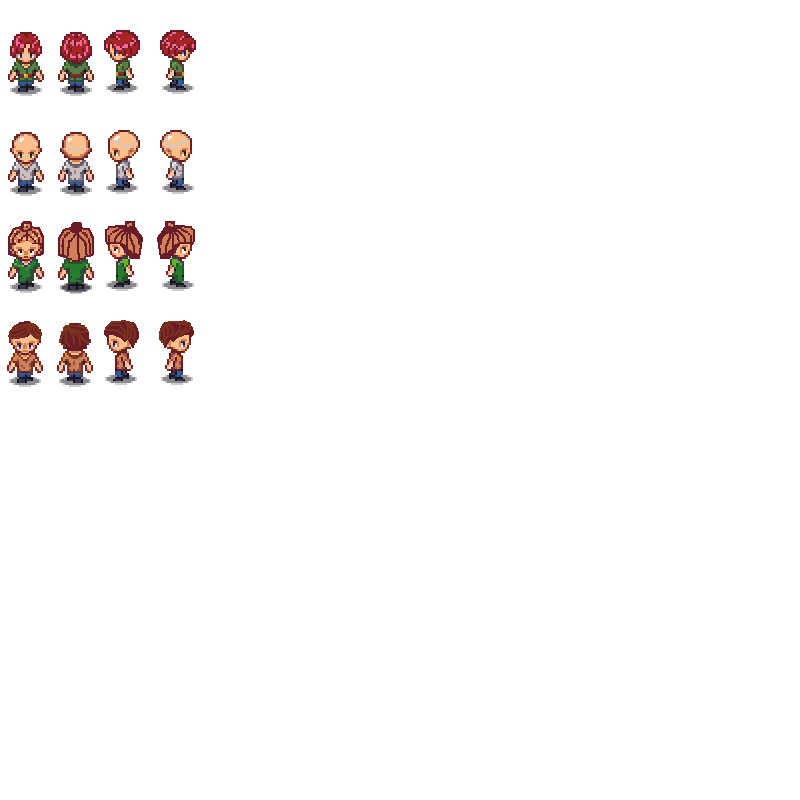
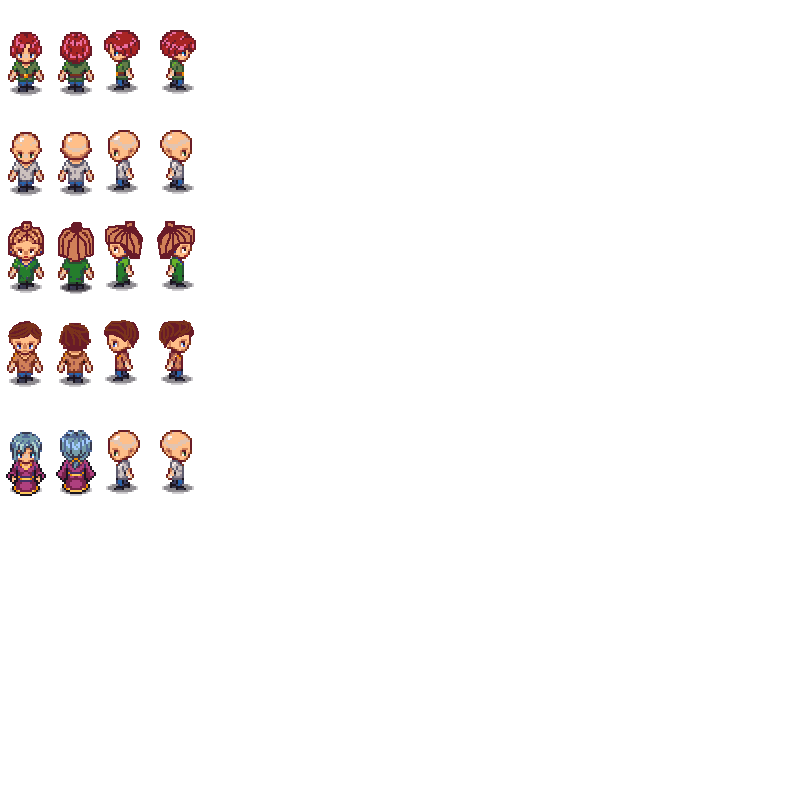
add village elder npc, add to house2

Changed region(s): [[0.0, 0.5312, 0.25, 0.625]]

diff --git a/js/daggerAssets.js b/js/daggerAssets.js
@@ -165,6 +165,13 @@ const animators = {
         }
     },
 
+    "ELDER": {
+        cls: "Animator",
+        animations: {
+            [Animator.idle]: "ELDER",
+        }
+    },
+
 }
 
 /**
@@ -1681,9 +1688,11 @@ const daggerAssets = [
     // 907   
         {tag: "FLETCHER",             id: 907, cls: "Sprite", width: 50, height: 100, xoffset: 0, yoffset: 300 },
         {tag: "FLETCHER_PORT",                cls: "Sprite", width: 50, height: 50, xoffset: 0, yoffset: 322 },
-       
     // 908   
         {tag: "HEALER",               id: 908, cls: "Sprite", width: 50, height: 100, xoffset: 0, yoffset: 100 },
+    // 909   
+        {tag: "ELDER",                id: 909,  cls: "Sprite", width: 50, height: 100, xoffset: 0, yoffset: 400 },
+        {tag: "ELDER_PORT",                     cls: "Sprite", width: 50, height: 50, xoffset: 0, yoffset: 422 },
     ]},
 
     /* === NON INDEXED ASSETS ================================================================ */

diff --git a/js/WorldGen.js b/js/WorldGen.js
@@ -550,7 +550,7 @@ var house2Spec = {
     fg: [
         420,430,430,430,430,430,430,430,430,421,
         420,431,437,431,431,431,431,431,428,421,
-        420,435,438,  0,  0,  0,  0,  0,429,421,
+        420,435,438,  0,  0,  0,909,  0,429,421,
         420,436,  0,  0,  0,  0,  0,  0,  0,421,
          25,422,422,424,  0,425,422,422,422, 25,
         

diff --git a/js/Main.js b/js/Main.js
@@ -42,7 +42,7 @@ var levelLoader = new LevelLoader({
 	lvls: allLevels,
 	// FYI: uncomment to disable enemies in maps
 	//dbgNoEnemy: true,
-	//dbg: true,
+	dbg: true,
 });
 var framesPerSecond = 30;
 var deltaTime = 1000/framesPerSecond;
